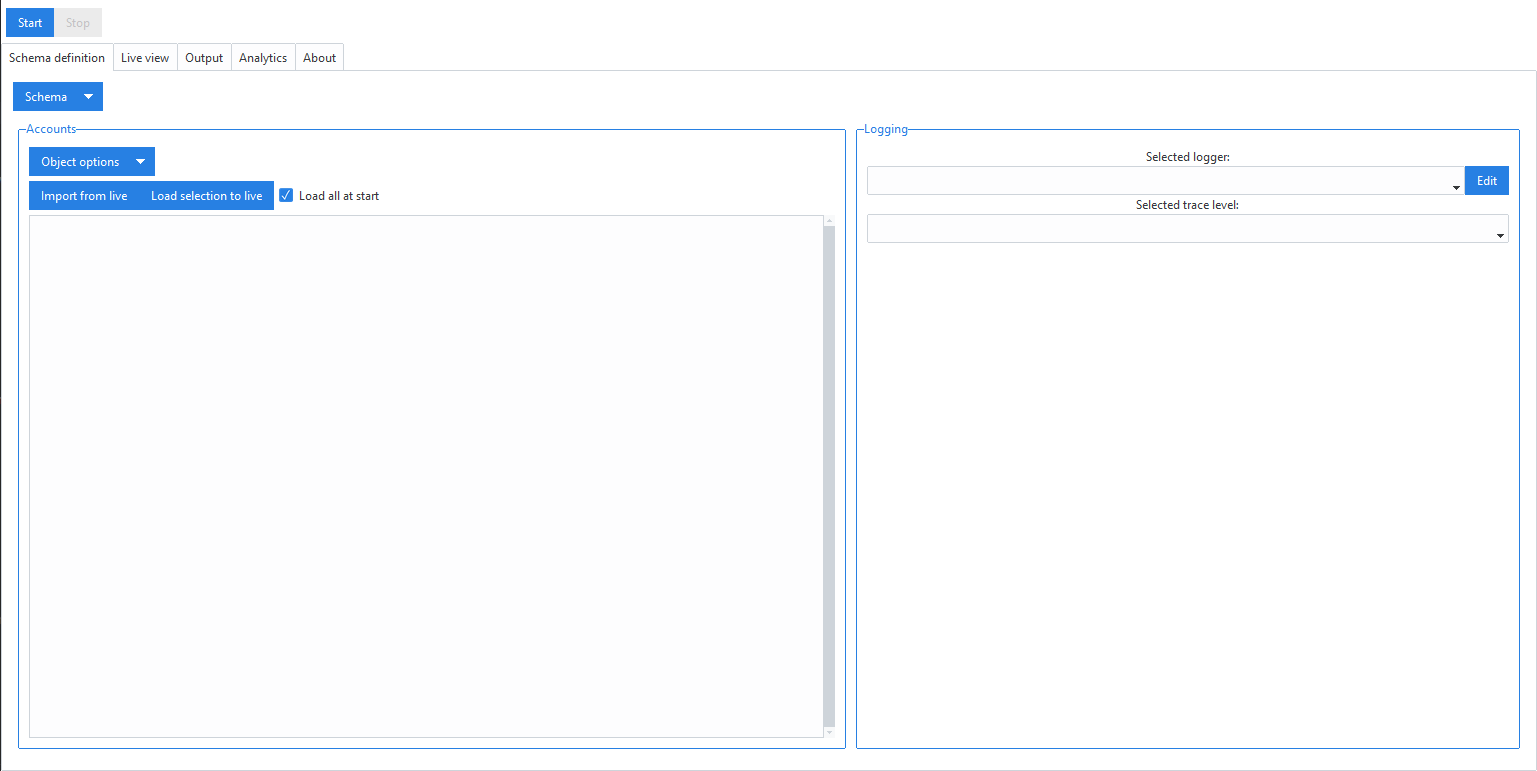
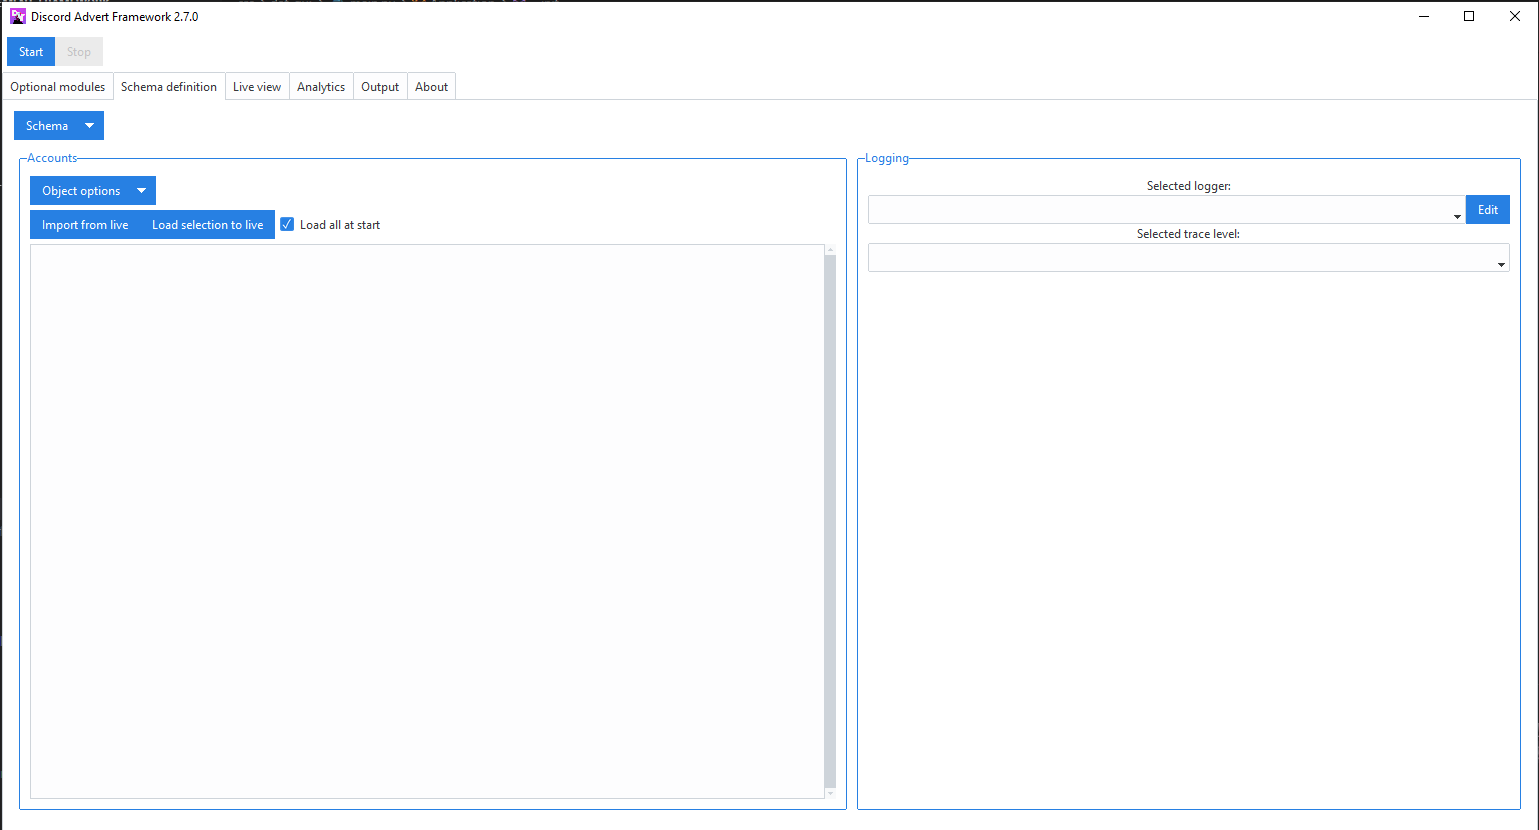
optionals tab

Changed region(s): [[0.0, 0.0, 1.0, 1.0], [0.5309, 0.2802, 0.5621, 0.3113]]

diff --git a/src/daf_gui/main.py b/src/daf_gui/main.py
@@ -2,6 +2,7 @@
 Main file of the DAF GUI.
 """
 import subprocess
+import multiprocessing as mp
 import sys
 
 from importlib.util import find_spec
@@ -51,9 +52,17 @@ Authors: David Hozic - Student at UL FE.
 GITHUB_URL = "https://github.com/davidhozic/discord-advertisement-framework"
 DOC_URL = f"https://daf.davidhozic.com/en/v{daf.VERSION}"
 
+OPTIONAL_MODULES = [
+    # Label, optional name, installed var
+    ("SQL logging", "sql", daf.logging.sql.SQL_INSTALLED),
+    ("Voice messages", "voice", daf.dtypes.GLOBALS.voice_installed),
+    ("Web features (Chrome)", "web", daf.web.GLOBALS.selenium_installed),
+]
+
 
 class GLOBAL:
     app: "Application" = None
+    restart: mp.Value = None
 
 
 def gui_except(fnc: Callable):
@@ -100,7 +109,7 @@ class Application():
         win_main.iconphoto(0, photo)
 
         self.win_main = win_main
-        screen_res = int(win_main.winfo_screenwidth() / 1.25), int(win_main.winfo_screenheight() / 1.5)
+        screen_res = int(win_main.winfo_screenwidth() / 1.25), int(win_main.winfo_screenheight() / 1.375)
         win_main.wm_title(f"Discord Advert Framework {daf.VERSION}")
         win_main.wm_minsize(*screen_res)
         win_main.protocol("WM_DELETE_WINDOW", self.close_window)
@@ -119,6 +128,9 @@ class Application():
         tabman_mf = ttk.Notebook(self.frame_main)
         tabman_mf.pack(fill=tk.BOTH, expand=True)
         self.tabman_mf = tabman_mf
+
+        # Optional dependencies tab
+        self.init_optional_dep_tab()
 
         # Objects tab
         self.init_schema_tab()
@@ -518,6 +530,45 @@ class Application():
             "Invite tracking"
         )
 
+    def init_optional_dep_tab(self):
+        dpi_10 = dpi_scaled(10)
+        dpi_5 = dpi_scaled(5)
+        frame_optionals = ttk.Frame(self.tabman_mf, padding=(dpi_10, dpi_10))
+        self.tabman_mf.add(frame_optionals, text="Optional modules")
+        ttk.Label(
+            frame_optionals,
+            text=
+            "This section allows you to install optional packages available inside DAF\n"
+            "Be aware that loading may be slower when installing these."
+        ).pack(anchor=tk.NW)
+        frame_optionals_packages = ttk.Frame(frame_optionals)
+        frame_optionals_packages.pack(fill=tk.BOTH, expand=True)
+
+        def install_deps(optional: str, gauge: ttk.Floodgauge, bnt: ttk.Button):
+            @gui_except
+            def _installer():
+                subprocess.check_call([
+                    sys.executable, "-m", "pip", "install",
+                    f"discord-advert-framework[{optional}]=={daf.VERSION}"
+                ])
+                tkdiag.Messagebox.show_info("The GUI will now reload. Save your changes!")
+                GLOBAL.restart.value = True
+                self.close_window()
+
+            return _installer
+
+        for row, (title, optional_name, installed_flag) in enumerate(OPTIONAL_MODULES):
+            ttk.Label(frame_optionals_packages, text=title).grid(row=row, column=0)
+            gauge = ttk.Floodgauge(
+                frame_optionals_packages, bootstyle=ttk.SUCCESS if installed_flag else ttk.DANGER, value=0
+            )
+            gauge.grid(pady=dpi_5, row=row, column=1)
+            if not installed_flag:
+                gauge.start()
+                bnt_install = ttk.Button(frame_optionals_packages, text="Install")
+                bnt_install.configure(command=install_deps(optional_name, gauge, bnt_install))
+                bnt_install.grid(row=row, column=1)
+
     @property
     def opened(self) -> bool:
         return self._window_opened
@@ -580,6 +631,9 @@ class Application():
         if filename == "":
             return
 
+        if not filename.endswith(".py"):
+            filename += ".py"
+
         logger = self.combo_logging_mgr.get()
         tracing = self.combo_tracing.get()
         logger_is_present = str(logger) != ""
@@ -631,8 +685,7 @@ daf.run(
         with open(filename, "w", encoding="utf-8") as file:
             file.write(_ret)
 
-        if not file.name.endswith(".py"):
-            os.rename(file.name, file.name + ".py")
+        tkdiag.Messagebox.show_info(f"Saved to {filename}", "Finished", self.win_main)
 
     @gui_except
     def save_schema(self) -> bool:
@@ -737,8 +790,6 @@ daf.run(
 
         async def _tmp():
             sys.stdout = self._oldstdout
-            self.win_main.destroy()
-            self.win_main.quit()
 
         async_execute(_tmp())
 
@@ -746,7 +797,8 @@ daf.run(
         self.win_main.update()
 
 
-def run():
+def run(restart: mp.Value):
+    GLOBAL.restart = restart
     app = Application()
     GLOBAL.app = app
 
@@ -762,4 +814,10 @@ def run():
 
 
 if __name__ == "__main__":
-    run()
+    mp.freeze_support()
+    restart = mp.Value('b', True)
+    while restart.value:
+        restart.value = False
+        main_p = mp.Process(target=run, args=(restart,))
+        main_p.start()
+        main_p.join()
